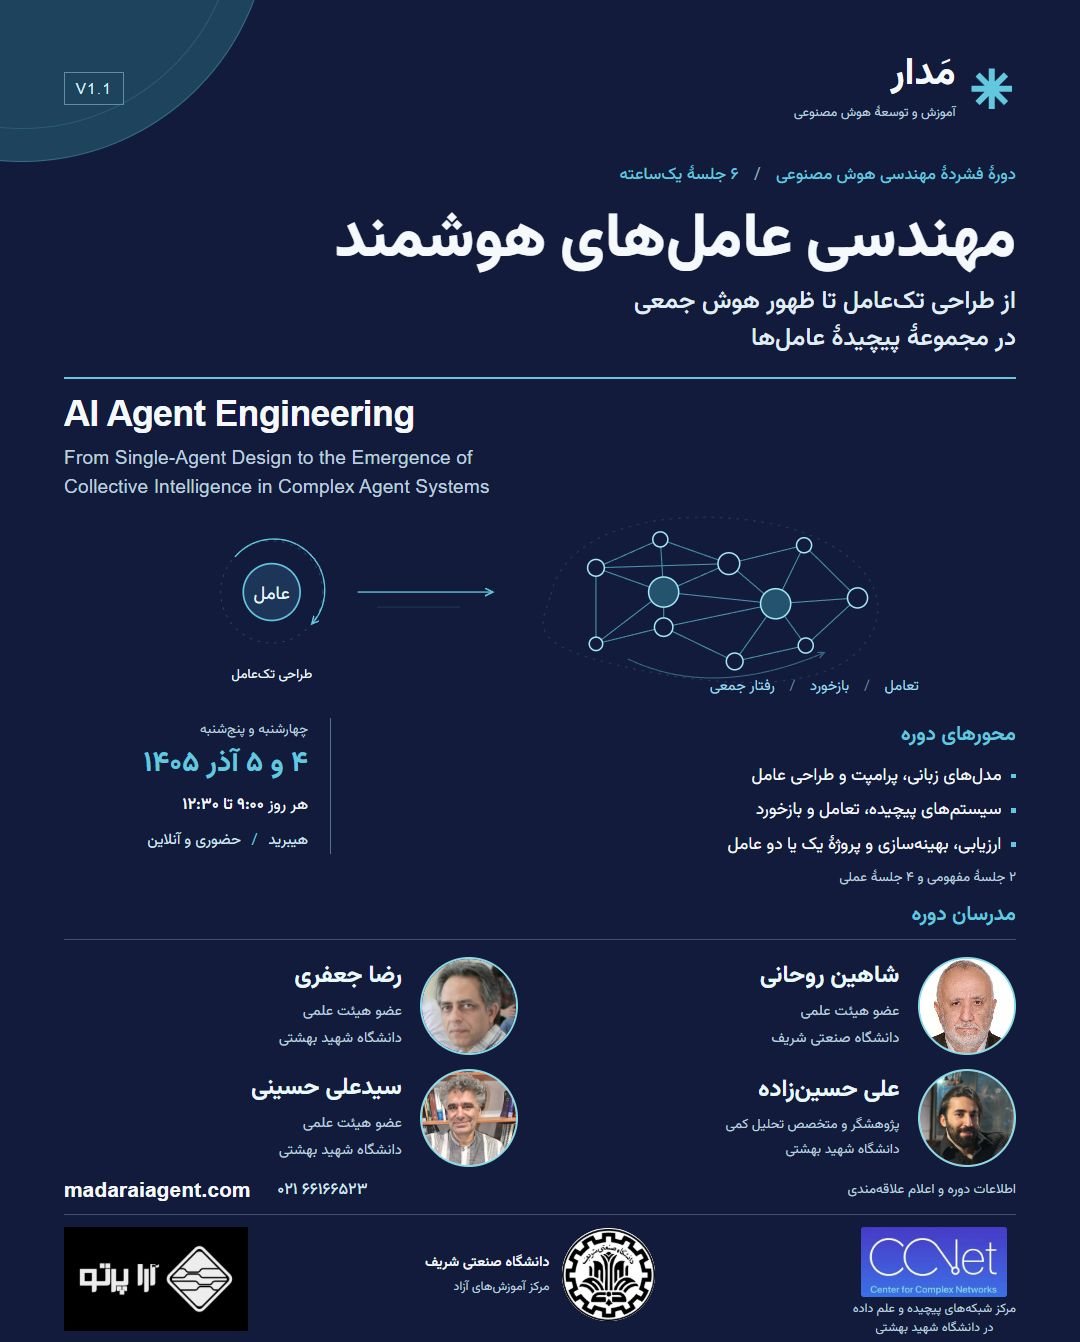
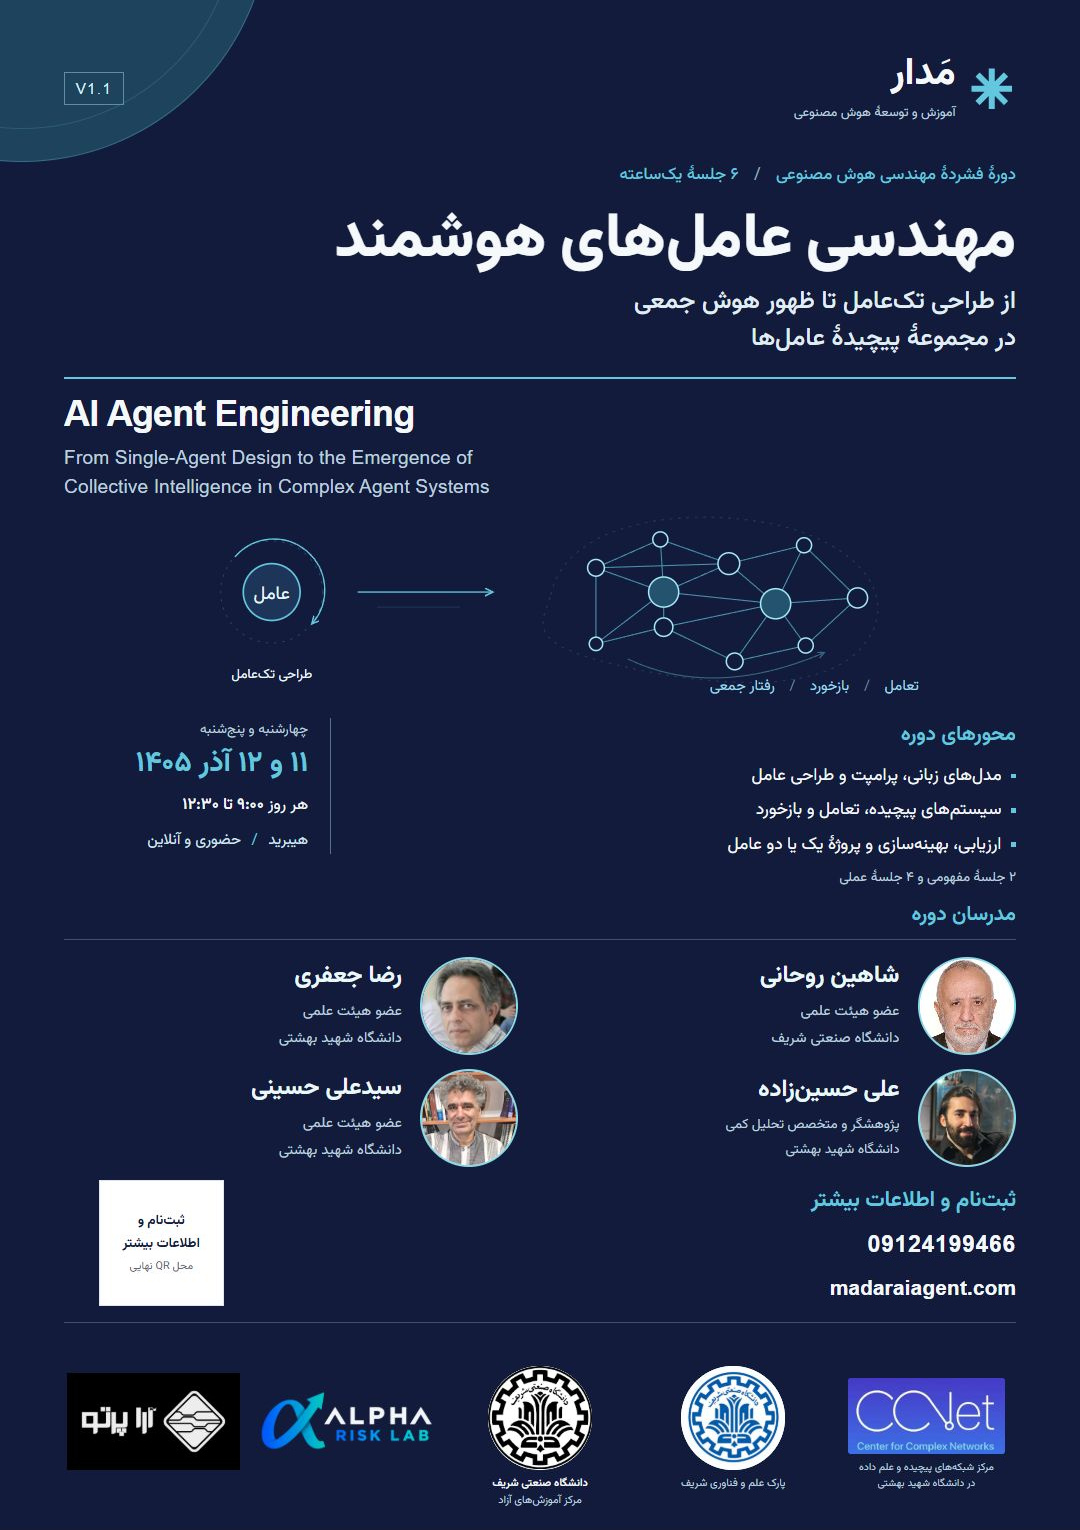
Add files via upload

diff --git a/assets/course/poster.css b/assets/course/poster.css
@@ -3,31 +3,31 @@
 *{box-sizing:border-box}html,body{margin:0;min-height:100%;background:#0b1026}
 body{font-family:Vazirmatn,Tahoma,sans-serif;color:var(--white);text-rendering:optimizeLegibility}
 a{color:inherit;text-decoration:none;cursor:pointer}a:focus-visible{outline:2px solid var(--cyan);outline-offset:5px}
-.poster{container-type:inline-size;position:relative;width:min(100%,1080px);aspect-ratio:4/5;margin-inline:auto;background:var(--navy);overflow:hidden;isolation:isolate}
+.poster{container-type:inline-size;position:relative;width:min(100%,1080px);aspect-ratio:12/17;margin-inline:auto;background:var(--navy);overflow:hidden;isolation:isolate}
 .poster h1,.poster h2,.poster h3,.poster p,.poster figure{margin:0}
 .poster-loading{display:none}
 html[data-poster-state]:not([data-poster-state="ready"]) .poster{visibility:hidden}
 html[data-poster-state="loading"] .poster-loading,html[data-poster-state="error"] .poster-loading{display:grid;position:fixed;inset:0;place-items:center;margin:0;padding:24px;color:var(--white);font-size:16px;text-align:center}
 .corner-arc{position:absolute;width:46cqw;height:46cqw;left:-21cqw;top:-31cqw;border:1px solid #63c7df50;border-radius:50%;background:#1e435d;z-index:-1}
 .corner-arc::after{content:'';position:absolute;inset:3cqw;border:1px solid #63c7df30;border-radius:50%}
-.poster-header{position:absolute;top:3.15%;right:5.93%;left:5.93%;height:6.8%;display:flex;align-items:center;justify-content:space-between}
+.poster-header{position:absolute;top:3.94cqw;right:5.93%;left:5.93%;height:8.5cqw;display:flex;align-items:center;justify-content:space-between}
 .madar-brand{display:flex;align-items:center;gap:1.2cqw}.brand-mark{width:4.4cqw;height:4.4cqw;color:var(--cyan)}
 .madar-brand>span{font-size:3.5cqw;line-height:1.2;font-weight:740}.madar-brand small{display:block;font-size:1.2cqw;font-weight:400;line-height:1.8;color:var(--muted);margin-top:.45cqw}
 .version{align-self:center;font-family:Arial,sans-serif;font-size:1.4cqw;letter-spacing:.08em;padding:.65cqw 1cqw;border:1px solid #5e8da5;color:#d0eef6}
-.hero{position:absolute;top:11.9%;right:5.93%;left:5.93%}
+.hero{position:absolute;top:14.875cqw;right:5.93%;left:5.93%}
 .eyebrow{font-size:1.55cqw;line-height:1.7;font-weight:450;color:var(--cyan)}.eyebrow>span{margin-inline:1cqw;color:#8aaabd}
 .hero h1{font-size:5.75cqw;font-weight:780;line-height:1.35;letter-spacing:-.035em;margin-top:.9cqw;white-space:nowrap}
 .subtitle{font-size:2.3cqw;font-weight:500;line-height:1.5;color:#e0edf5;margin-top:.1cqw!important}
 .english-title{border-top:2px solid var(--cyan);margin-top:1.7cqw;padding-top:1.2cqw;text-align:left}
 .english-title h2{font-family:Arial,Vazirmatn,sans-serif;font-size:3.3cqw;font-weight:700;line-height:1.25;letter-spacing:-.015em}
 .english-title p{font-family:Arial,Vazirmatn,sans-serif;font-size:1.8cqw;font-weight:400;line-height:1.5;color:var(--muted);margin-top:.6cqw}
-.agent-diagram{position:absolute;top:38.2%;right:5.93%;left:5.93%;height:13%}
+.agent-diagram{position:absolute;top:47.75cqw;right:5.93%;left:5.93%;height:16.25cqw}
 .agent-diagram svg{display:block;width:100%;height:100%}.agent-diagram figcaption{position:absolute;right:9cqw;bottom:-.6cqw;font-size:1.35cqw;color:#9fd8e8;letter-spacing:0;line-height:1.5}.agent-diagram figcaption span{margin-inline:1cqw;color:#6c829e}
-.course-details{position:absolute;top:53.2%;right:5.93%;left:5.93%;height:11.5%;display:grid;grid-template-columns:1fr 28%;gap:4cqw;align-items:start}
+.course-details{position:absolute;top:66.5cqw;right:5.93%;left:5.93%;height:14.375cqw;display:grid;grid-template-columns:1fr 28%;gap:4cqw;align-items:start}
 .topics h2{font-size:1.9cqw;font-weight:600;line-height:1.7;color:var(--cyan)}
 .topics ul{list-style:none;margin:.75cqw 0 0;padding:0;display:grid;gap:.45cqw}.topics li{position:relative;padding-right:1.35cqw;font-size:1.6cqw;line-height:1.7;color:var(--white)}.topics li::before{content:'';position:absolute;right:0;top:1.15cqw;width:.45cqw;height:.45cqw;background:var(--cyan)}.topics>p{font-size:1.25cqw;color:var(--muted);margin-top:.7cqw}
 .schedule{border-right:1px solid #54738b;padding-right:2cqw;min-height:12cqw}.schedule>span{display:block;font-size:1.25cqw;line-height:1.8;color:var(--muted)}.schedule>strong{display:block;font-size:2.65cqw;line-height:1.6;font-weight:700;color:var(--cyan);white-space:nowrap}.schedule>p{font-size:1.5cqw;line-height:1.8;margin-top:.25cqw}.schedule b{font-weight:550}.schedule>div{font-size:1.4cqw;line-height:1.8;margin-top:.65cqw;color:#d1e5ef}.schedule>div span{margin-inline:.6cqw;color:var(--cyan)}
-.speakers{position:absolute;top:66.6%;right:5.93%;left:5.93%}
+.speakers{position:absolute;top:83.25cqw;right:5.93%;left:5.93%}
 .speakers>h2{font-size:1.9cqw;line-height:1.6;font-weight:600;border-bottom:1px solid var(--rule);padding-bottom:.65cqw;color:var(--cyan)}
 .speakers-grid{display:grid;grid-template-columns:1fr 1fr;column-gap:4cqw;row-gap:1.2cqw;margin-top:1.5cqw}
 .speaker{display:grid;grid-template-columns:9.1cqw minmax(0,1fr);gap:1.7cqw;align-items:center;min-height:9.2cqw;min-width:0}
@@ -37,16 +37,20 @@ html[data-poster-state="loading"] .poster-loading,html[data-poster-state="error"
 .speaker-hosseinzadeh .portrait img{position:absolute;width:230%;height:auto;max-width:none;left:-50%;top:-109%;object-fit:initial}
 .speaker-hosseini .portrait img{position:absolute;width:200%;height:auto;max-width:none;left:-58%;top:-58%;object-fit:initial}
 .speaker h3{font-size:2.2cqw;line-height:1.55;font-weight:700;white-space:nowrap;color:#eaf8fc}.speaker p{font-size:1.35cqw;line-height:1.85;font-weight:400;margin-top:.35cqw;color:var(--muted)}.speaker-hosseinzadeh p{font-size:1.25cqw}
-.poster-footer{position:absolute;right:5.93%;left:5.93%;bottom:2.45%;height:10.4%}
-.contact-row{display:flex;justify-content:space-between;align-items:center;gap:2cqw;padding-bottom:1.1cqw;border-bottom:1px solid var(--rule)}.contact-row>p{font-size:1.25cqw;color:var(--muted)}.contact-row>div{display:flex;align-items:center;gap:2.5cqw;direction:ltr}.contact-row a:first-child{font-family:Arial,sans-serif;font-size:1.9cqw;font-weight:650;color:var(--white);letter-spacing:.015em}.contact-row a:last-child{font-size:1.5cqw;font-weight:450;color:#d3e7ef}
-.partner-row{display:grid;grid-template-columns:1fr 1fr 1fr;gap:2cqw;align-items:start;margin-top:1.1cqw;min-height:9.9cqw}
-.sharif-brand{justify-self:center}.parent-brand{justify-self:end}
-.ccnet-brand{display:flex;align-items:center;flex-direction:column;justify-self:start;min-width:0;text-align:center}
-.ccnet-logo{position:relative;width:13.5cqw;height:6.5cqw;overflow:hidden;border-radius:.3cqw;background:#3158cc}
+.poster-footer{position:absolute;right:5.93%;left:5.93%;top:109.3cqw;bottom:1.5cqw}
+.registration-row{display:grid;grid-template-columns:minmax(0,1fr) 18cqw;gap:4cqw;align-items:center;padding-bottom:1.5cqw;border-bottom:1px solid var(--rule)}
+.registration-copy h2{font-size:2cqw;line-height:1.7;font-weight:650;color:var(--cyan)}.registration-phones{display:flex;align-items:center;gap:2.1cqw;flex-wrap:wrap;margin-top:.7cqw}.registration-site{display:block;width:fit-content;margin-top:1.1cqw;font-family:Arial,sans-serif;font-size:1.9cqw;font-weight:650;line-height:1.4;letter-spacing:.015em}
+.registration-code{display:flex;align-items:center;justify-content:center}.registration-mobile{font-family:Arial,sans-serif;font-size:2.15cqw;font-weight:700;line-height:1.5;letter-spacing:.025em}.qr-placeholder{display:grid;place-content:center;width:11.6cqw;height:11.6cqw;padding:1cqw;background:#fff;color:var(--navy);text-align:center;font-size:1.25cqw;line-height:1.65;font-weight:650;border:1px solid #dce6ef}.qr-placeholder small{font-size:1cqw;font-weight:400;color:#5b6576;margin-top:.3cqw}
+.partner-row{display:grid;grid-template-columns:repeat(5,minmax(0,1fr));gap:1.3cqw;align-items:start;margin-top:4cqw}
+.partner-row>div{justify-self:center;min-width:0;text-align:center}.partner-row p{font-size:1cqw;line-height:1.6;color:var(--muted);font-weight:400}
+.ccnet-brand{display:flex;align-items:center;flex-direction:column}
+.ccnet-logo{position:relative;width:14.6cqw;height:7cqw;overflow:hidden;border-radius:.3cqw;background:#3158cc;margin-top:1.15cqw}
 .ccnet-logo img{position:absolute;display:block;width:162%;height:auto;max-width:none;left:-32%;top:-126%}
-.ccnet-brand p{font-size:1.15cqw;line-height:1.5;font-weight:400;color:var(--muted);margin-top:.25cqw;white-space:nowrap}
-.sharif-brand{display:flex;align-items:center;gap:1.2cqw;margin-top:.1cqw}.sharif-brand>img{width:8.6cqw;height:8.6cqw;object-fit:contain;background:#fff;border-radius:50%}.sharif-brand p{font-size:1.3cqw;font-weight:550;line-height:1.8}.sharif-brand p span{display:block;font-size:1.15cqw;font-weight:400;color:var(--muted)}
-.parent-brand img{display:block;width:17cqw;height:auto;aspect-ratio:16/9;object-fit:contain;background:#000}
+.ccnet-brand p{margin-top:.55cqw;white-space:nowrap;font-size:.95cqw}
+.sharif-brand{display:flex;align-items:center;flex-direction:column;gap:.45cqw}.sharif-brand>img{width:9.6cqw;height:9.6cqw;object-fit:contain;background:#fff;border-radius:50%}.sharif-brand p{color:var(--white);font-weight:550}.sharif-brand p span{display:block;font-weight:400;color:var(--muted)}
+.park-brand{display:flex;align-items:center;flex-direction:column;gap:.45cqw}.park-logo{position:relative;width:9.6cqw;height:9.6cqw;overflow:hidden;background:#fcfeff;border-radius:50%}.park-logo img{position:absolute;width:14.74cqw;height:14.74cqw;max-width:none;left:-2.57cqw;top:-.78cqw}.park-brand p{white-space:nowrap}
+.alpha-brand{display:flex;align-items:center;flex-direction:column;justify-content:center;min-height:9.6cqw}.alpha-logo{position:relative;width:16.5cqw;height:9.6cqw;overflow:hidden}.alpha-logo img{position:absolute;display:block;width:20cqw;height:10cqw;max-width:none;left:-1.75cqw;top:-.2cqw;object-fit:contain}
+.parent-brand{padding-top:.6cqw}.parent-brand img{display:block;width:16cqw;height:auto;aspect-ratio:16/9;object-fit:contain;background:#000}
 @media(min-width:1120px){body{padding:24px}.poster{box-shadow:0 15px 65px #03081770}}
-@media print{@page{size:216mm 270mm;margin:0}html,body{width:216mm;height:270mm;min-height:0;padding:0;background:var(--navy)}.poster{width:216mm;height:270mm;max-width:none;margin:0;box-shadow:none;print-color-adjust:exact;-webkit-print-color-adjust:exact}a[href]::after{content:none}}
+@media print{@page{size:216mm 306mm;margin:0}html,body{width:216mm;height:306mm;min-height:0;padding:0;background:var(--navy)}.poster{width:216mm;height:306mm;max-width:none;margin:0;box-shadow:none;print-color-adjust:exact;-webkit-print-color-adjust:exact}a[href]::after{content:none}}
 

diff --git a/assets/course/poster.html b/assets/course/poster.html
@@ -2,7 +2,7 @@
 <html lang="fa" dir="rtl">
 <head>
 <meta charset="utf-8"><meta name="viewport" content="width=device-width, initial-scale=1">
-<meta name="description" content="مهندسی عاملهای هوشمند؛ از طراحی تکعامل تا ظهور هوش جمعی در مجموعهٔ پیچیدهٔ عاملها. AI Agent Engineering — V1.1. چهارم و پنجم آذر ۱۴۰۵، حضوری و آنلاین.">
+<meta name="description" content="مهندسی عاملهای هوشمند؛ از طراحی تکعامل تا ظهور هوش جمعی در مجموعهٔ پیچیدهٔ عاملها. AI Agent Engineering — V1.1. یازدهم و دوازدهم آذر ۱۴۰۵، حضوری و آنلاین.">
 <meta name="theme-color" content="#121b3b">
 <title>مهندسی عاملهای هوشمند | AI Agent Engineering — V1.1</title>
 <link rel="canonical" href="https://madaraiagent.com/assets/course/poster.html">
@@ -11,16 +11,16 @@
 <meta property="og:locale" content="fa_IR">
 <meta property="og:site_name" content="مَدار">
 <meta property="og:title" content="مهندسی عاملهای هوشمند V1.1 | مَدار">
-<meta property="og:description" content="دورهٔ ششجلسهای مهندسی عاملهای هوشمند؛ از طراحی تکعامل تا ظهور هوش جمعی. ۴ و ۵ آذر ۱۴۰۵، حضوری و آنلاین.">
+<meta property="og:description" content="دورهٔ ششجلسهای مهندسی عاملهای هوشمند؛ از طراحی تکعامل تا ظهور هوش جمعی. ۱۱ و ۱۲ آذر ۱۴۰۵، حضوری و آنلاین.">
 <meta property="og:url" content="https://madaraiagent.com/assets/course/poster.html">
 <meta property="og:image" content="https://madaraiagent.com/assets/course/madar-course-poster.jpg">
 <meta property="og:image:type" content="image/jpeg">
 <meta property="og:image:width" content="1080">
-<meta property="og:image:height" content="1342">
+<meta property="og:image:height" content="1530">
 <meta property="og:image:alt" content="پوستر دورهٔ مهندسی عاملهای هوشمند V1.1 مَدار">
 <meta name="twitter:card" content="summary_large_image">
 <meta name="twitter:title" content="مهندسی عاملهای هوشمند V1.1 | مَدار">
-<meta name="twitter:description" content="دورهٔ ششجلسهای مهندسی عاملهای هوشمند؛ ۴ و ۵ آذر ۱۴۰۵، حضوری و آنلاین.">
+<meta name="twitter:description" content="دورهٔ ششجلسهای مهندسی عاملهای هوشمند؛ ۱۱ و ۱۲ آذر ۱۴۰۵، حضوری و آنلاین.">
 <meta name="twitter:image" content="https://madaraiagent.com/assets/course/madar-course-poster.jpg">
 <meta name="twitter:image:alt" content="پوستر دورهٔ مهندسی عاملهای هوشمند V1.1 مَدار">
 <script>document.documentElement.dataset.posterState='loading';</script>
@@ -55,7 +55,7 @@
 </figure>
 <section class="course-details" aria-label="زمان، شیوهٔ برگزاری و محورهای دوره">
 <div class="topics"><h2>محورهای دوره</h2><ul><li>مدلهای زبانی، پرامپت و طراحی عامل</li><li>سیستمهای پیچیده، تعامل و بازخورد</li><li>ارزیابی، بهینهسازی و پروژهٔ یک یا دو عامل</li></ul><p>۲ جلسهٔ مفهومی و ۴ جلسهٔ عملی</p></div>
-<div class="schedule"><span>چهارشنبه و پنجشنبه</span><strong>۴ و ۵ آذر ۱۴۰۵</strong><p>هر روز <b>۹:۰۰ تا ۱۲:۳۰</b></p><div>هیبرید <span aria-hidden="true">/</span> حضوری و آنلاین</div></div>
+<div class="schedule"><span>چهارشنبه و پنجشنبه</span><strong>۱۱ و ۱۲ آذر ۱۴۰۵</strong><p>هر روز <b>۹:۰۰ تا ۱۲:۳۰</b></p><div>هیبرید <span aria-hidden="true">/</span> حضوری و آنلاین</div></div>
 </section>
 <section class="speakers" aria-labelledby="speakers-title">
 <h2 id="speakers-title">مدرسان دوره</h2>
@@ -66,10 +66,15 @@
 <article class="speaker speaker-hosseini"><div class="portrait"><img src="../people/seyed-ali-hosseini.png" alt="سیدعلی حسینی" width="960" height="1280"></div><div><h3>سیدعلی حسینی</h3><p>عضو هیئت علمی<br>دانشگاه شهید بهشتی</p></div></article>
 </div></section>
 <footer class="poster-footer">
-<div class="contact-row"><p>اطلاعات دوره و اعلام علاقهمندی</p><div><a href="https://madaraiagent.com/" dir="ltr">madaraiagent.com</a><a href="tel:+982166166523" dir="ltr">۰۲۱ ۶۶۱۶۶۵۲۳</a></div></div>
+<div class="registration-row">
+<div class="registration-copy"><h2>ثبتنام و اطلاعات بیشتر</h2><div class="registration-phones"><a class="registration-mobile" href="tel:+989124199466" dir="ltr" aria-label="تماس برای ثبتنام ۰۹۱۲۴۱۹۹۴۶۶">09124199466</a></div><a class="registration-site" href="https://madaraiagent.com/" dir="ltr">madaraiagent.com</a></div>
+<div class="registration-code"><div class="qr-placeholder" role="img" aria-label="محل کد ثبتنام؛ کد نهایی بعداً اضافه میشود">ثبتنام و<br>اطلاعات بیشتر<small>محل QR نهایی</small></div></div>
+</div>
 <div class="partner-row">
 <div class="ccnet-brand"><div class="ccnet-logo"><img src="../brand/ccnet.png" alt="نشان مرکز شبکههای پیچیده و علم داده" width="640" height="640" loading="eager" decoding="sync"></div><p>مرکز شبکههای پیچیده و علم داده<br>در دانشگاه شهید بهشتی</p></div>
+<div class="park-brand"><div class="park-logo"><img src="../brand/sharif-tech-park.png" alt="نشان پارک علم و فناوری دانشگاه صنعتی شریف" width="1280" height="1280"></div><p>پارک علم و فناوری شریف</p></div>
 <div class="sharif-brand"><img src="../brand/sharif.png" alt="نشان دانشگاه صنعتی شریف" width="149" height="149"><p>دانشگاه صنعتی شریف<span>مرکز آموزشهای آزاد</span></p></div>
+<div class="alpha-brand"><div class="alpha-logo"><img src="../brand/alpha-risk-lab.png" alt="ALPHA RISK LAB" width="1774" height="887"></div></div>
 <div class="parent-brand"><img src="../brand/ara-parto.png" alt="آرا پرتو، شرکت مادر مَدار" width="1280" height="720"></div>
 </div>
 </footer>

diff --git a/assets/course/ASSET-NOTES.md b/assets/course/ASSET-NOTES.md
@@ -1,8 +1,8 @@
-# راهنمای پوستر و تصاویر — ۲۷ اکتبر ۲۰۲۶
+# راهنمای پوستر و تصاویر — ۲۹ اکتبر ۲۰۲۶
 
-نسخهٔ V1.1 پوستر در `poster.html` و `poster.css` قابل ویرایش است. خروجی تصویری هماهنگ با آن `madar-course-poster.jpg` با اندازهٔ ۱۰۸۰ × ۱۳۴۲ پیکسل است. پس از تغییر متن یا ظاهر، JPG نیز دوباره از صفحهٔ پوستر صادر شود.
+نسخهٔ V1.1 پوستر در `poster.html` و `poster.css` قابل ویرایش است. ابعاد پوستر جدید برای ثبتنام و پنج لوگو ۱۰۸۰ × ۱۵۳۰ پیکسل است. پس از تغییر متن یا ظاهر، JPG نیز دوباره از صفحهٔ پوستر صادر شود و ابعاد واقعی آن در متادیتای سایت درج شود.
 
-چهار عکس مدرس و سه لوگو مستقیماً توسط صاحب سایت برای همین دوره ارائه شدهاند. عکسها روتوش یا بازسازی نشدهاند؛ قاب و بزرگنمایی با CSS کنترل میشود. نگاشت عکسها:
+چهار عکس مدرس و پنج لوگو مستقیماً توسط صاحب سایت برای همین دوره ارائه شدهاند. عکسها روتوش یا بازسازی نشدهاند؛ قاب و بزرگنمایی با CSS کنترل میشود. نگاشت عکسها:
 
 - `../people/shahin-rouhani.jpg`: شاهین روحانی، پسزمینهٔ سفید
 - `../people/reza-jafari.jpg`: رضا جعفری، تصویر نمای نزدیک
@@ -24,4 +24,6 @@
 
 عنوان علی حسینزاده اکنون «پژوهشگر و متخصص تحلیل کمی» است و خط زیر آن فقط «دانشگاه شهید بهشتی» نوشته میشود. لوگوی CCNet در ../brand/ccnet.png با زیرنویس «مرکز شبکههای پیچیده و علم داده در دانشگاه شهید بهشتی» در سمت راست پایین پوستر قرار دارد. قاب لوگو فقط حاشیهٔ رنگی اضافی منبع را با CSS میپوشاند؛ محتوای لوگو تغییر نکرده است.
 
-لوگوی شریف در خروجی تازه حدود ۹۳ پیکسل است و همراه عنوانش در وسط پایین پوستر قرار دارد؛ جای آن با لوگوی CCNet جابهجا شده است. نشان آرا پرتو همچنان پایین چپ است.
+لوگوی شریف در خروجی تازه حدود ۱۰۴ پیکسل است و همراه عنوانش در وسط پایین پوستر قرار دارد. ترتیب پنج لوگو از راست: CCNet، پارک علم و فناوری شریف، دانشگاه صنعتی شریف، Alpha Risk Lab و آرا پرتو. دو فایل جدید `../brand/sharif-tech-park.png` و `../brand/alpha-risk-lab.png` همان منابع ارسالیاند؛ قاب CSS نشان پارک را نمایش میدهد و نام آن زیر قاب آمده است.
+
+فقط شمارهٔ 09124199466 زیر عنوان «ثبتنام و اطلاعات بیشتر» قرار دارد و نشانی سایت زیر آن است؛ تلفن ثابت از پوستر حذف شده است. کادر سفید روبهرو حدود ۱۲۵ پیکسل است؛ پنج لوگوی پایین کمی بزرگتر و نزدیکتر به لبهٔ پایین قرار گرفتهاند. این کادر با متن «ثبتنام و اطلاعات بیشتر» محل QR نهایی است و فعلاً اسکن نمیشود. عکس مدرسان در پوستر حفظ شدهاند؛ بخش اعضای سایت فقط نامها را نمایش میدهد. نام صحیح عضو پنجم «فرزاد باطومچی» است.
